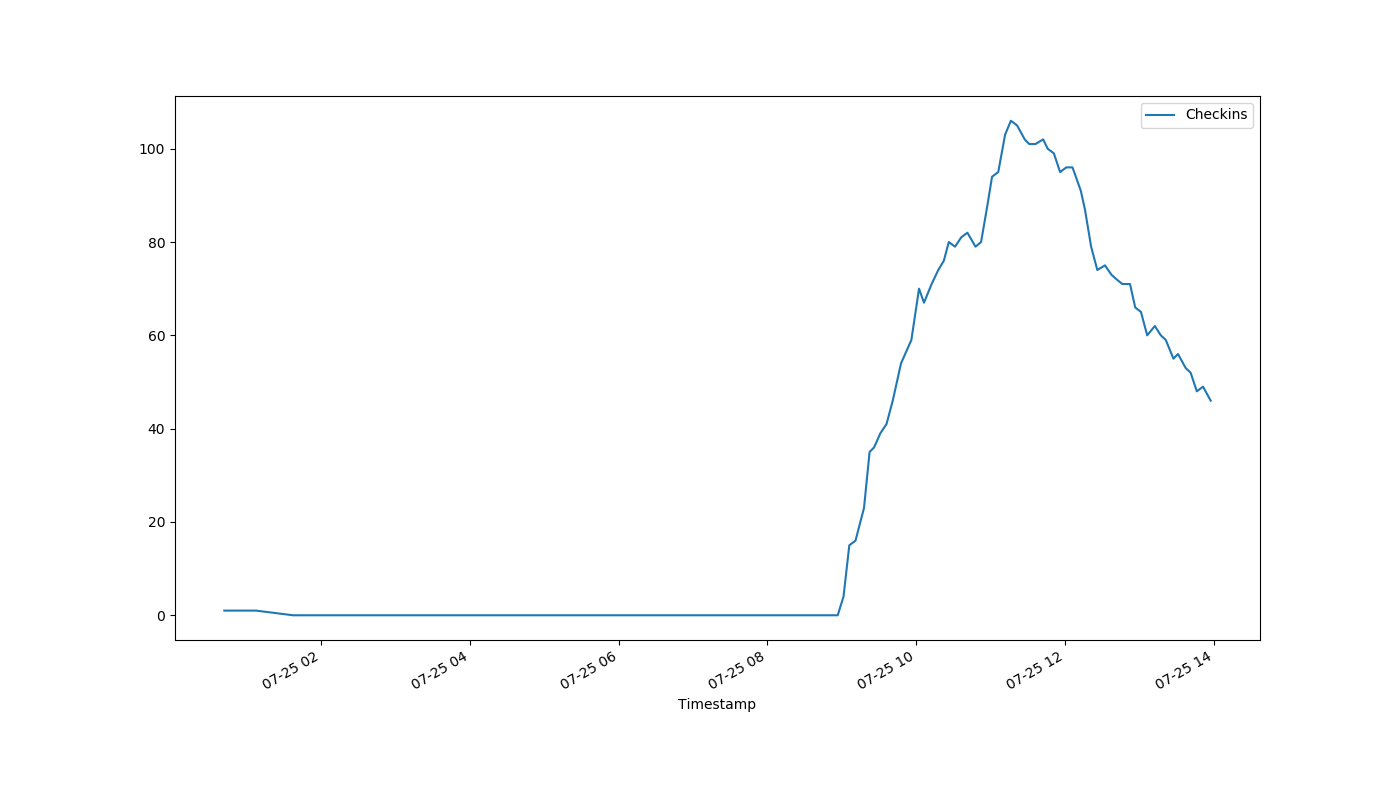
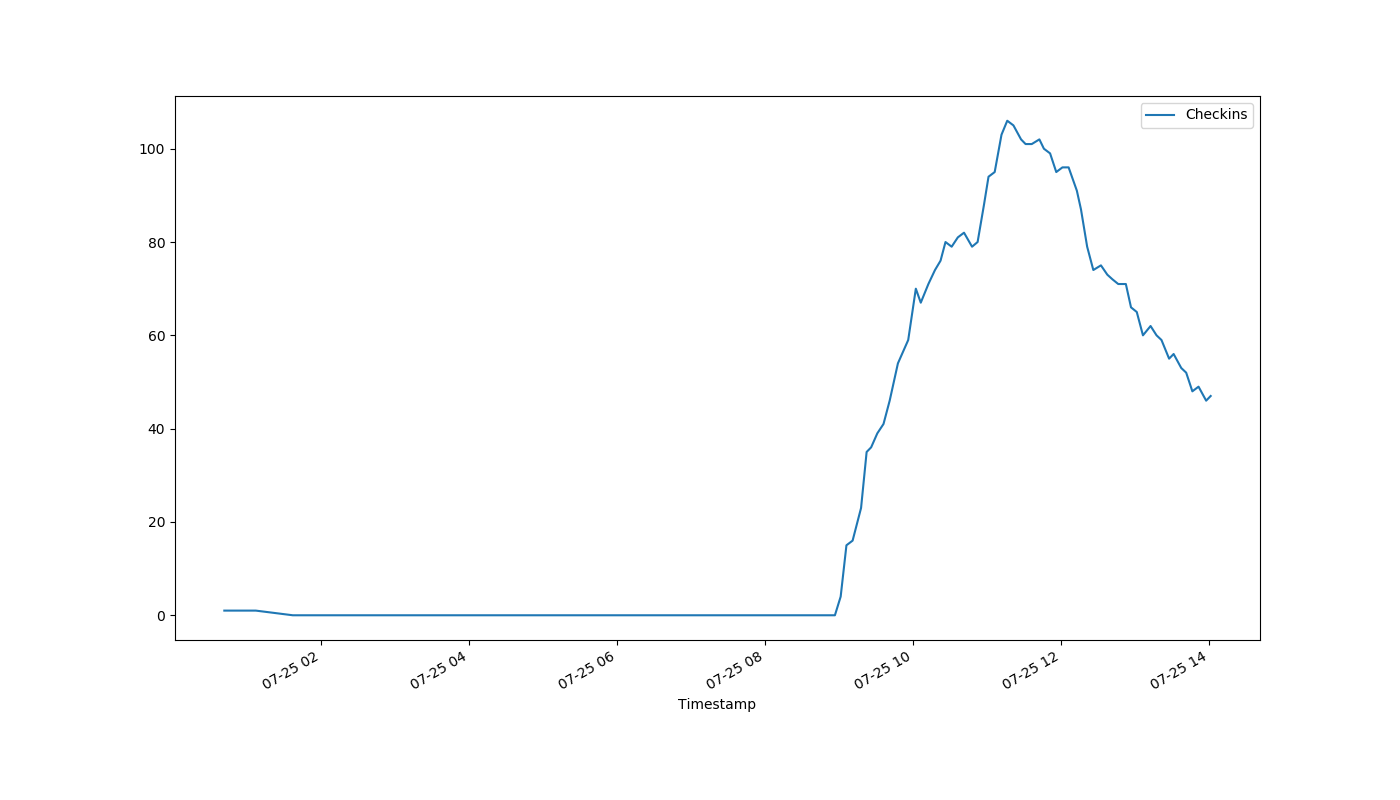
auto-Jul-25-14:02:23

diff --git a/index.html b/index.html
@@ -1,1 +1,1 @@
-<!DOCTYPE html><html><head><meta http-equiv="refresh" content="30"><link rel='stylesheet' href='holmcurrent.css'></head><body><p id='count'>46</p><div id='graph-wrap'><img id='graph' src='holmgraph-Jul-25.png'></div><p id='updated'>Last updated 13:58:04 / 13:57:29</p></body></html>
+<!DOCTYPE html><html><head><meta http-equiv="refresh" content="30"><link rel='stylesheet' href='holmcurrent.css'></head><body><p id='count'>47</p><div id='graph-wrap'><img id='graph' src='holmgraph-Jul-25.png'></div><p id='updated'>Last updated 14:02:04 / 14:01:09</p></body></html>
